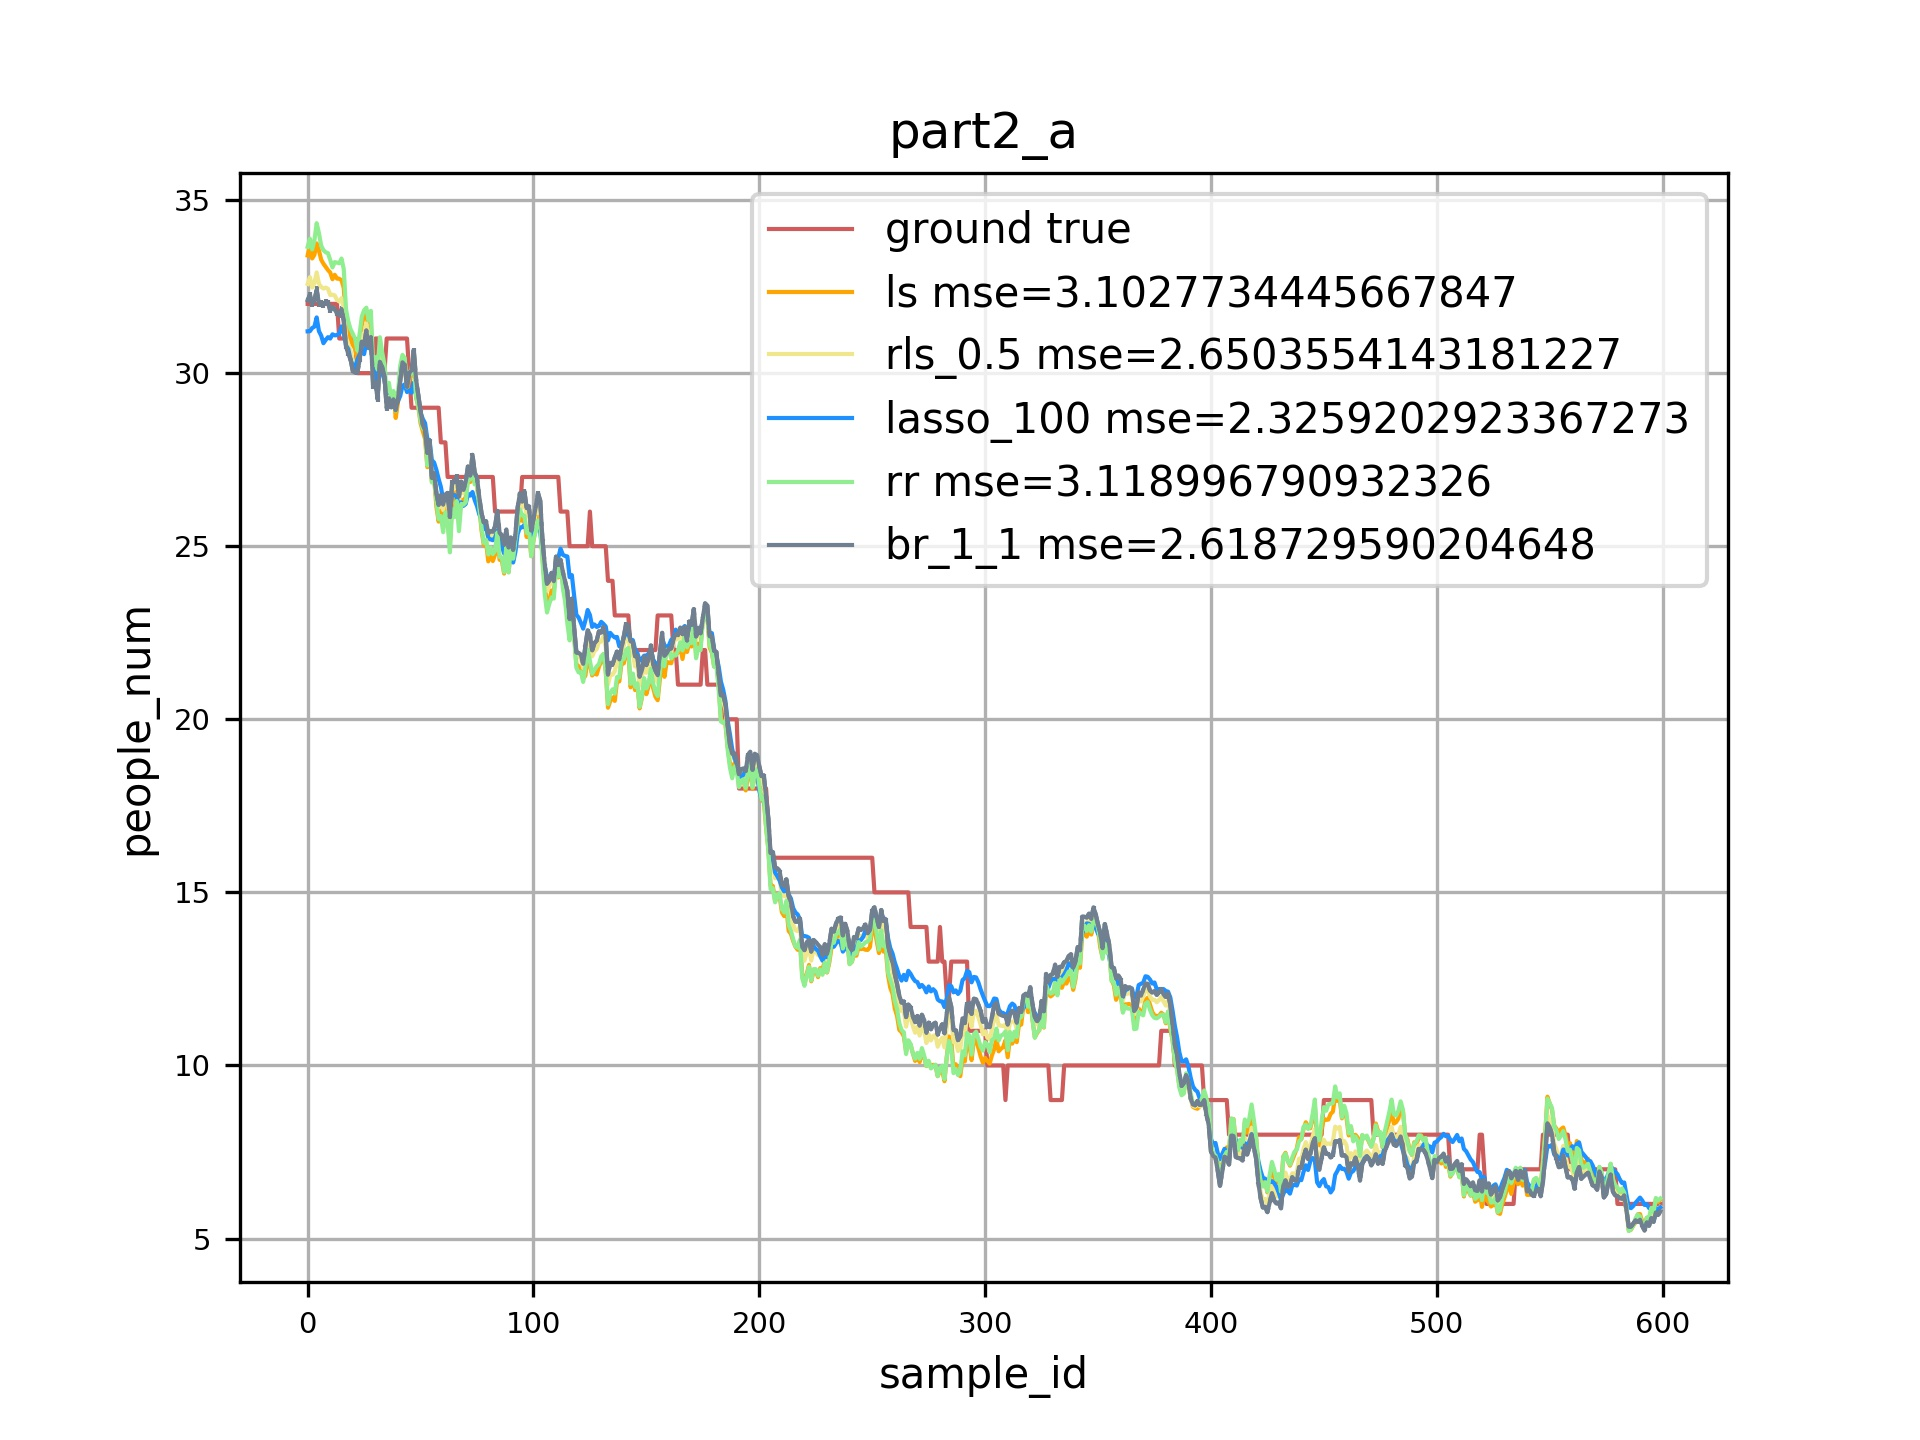
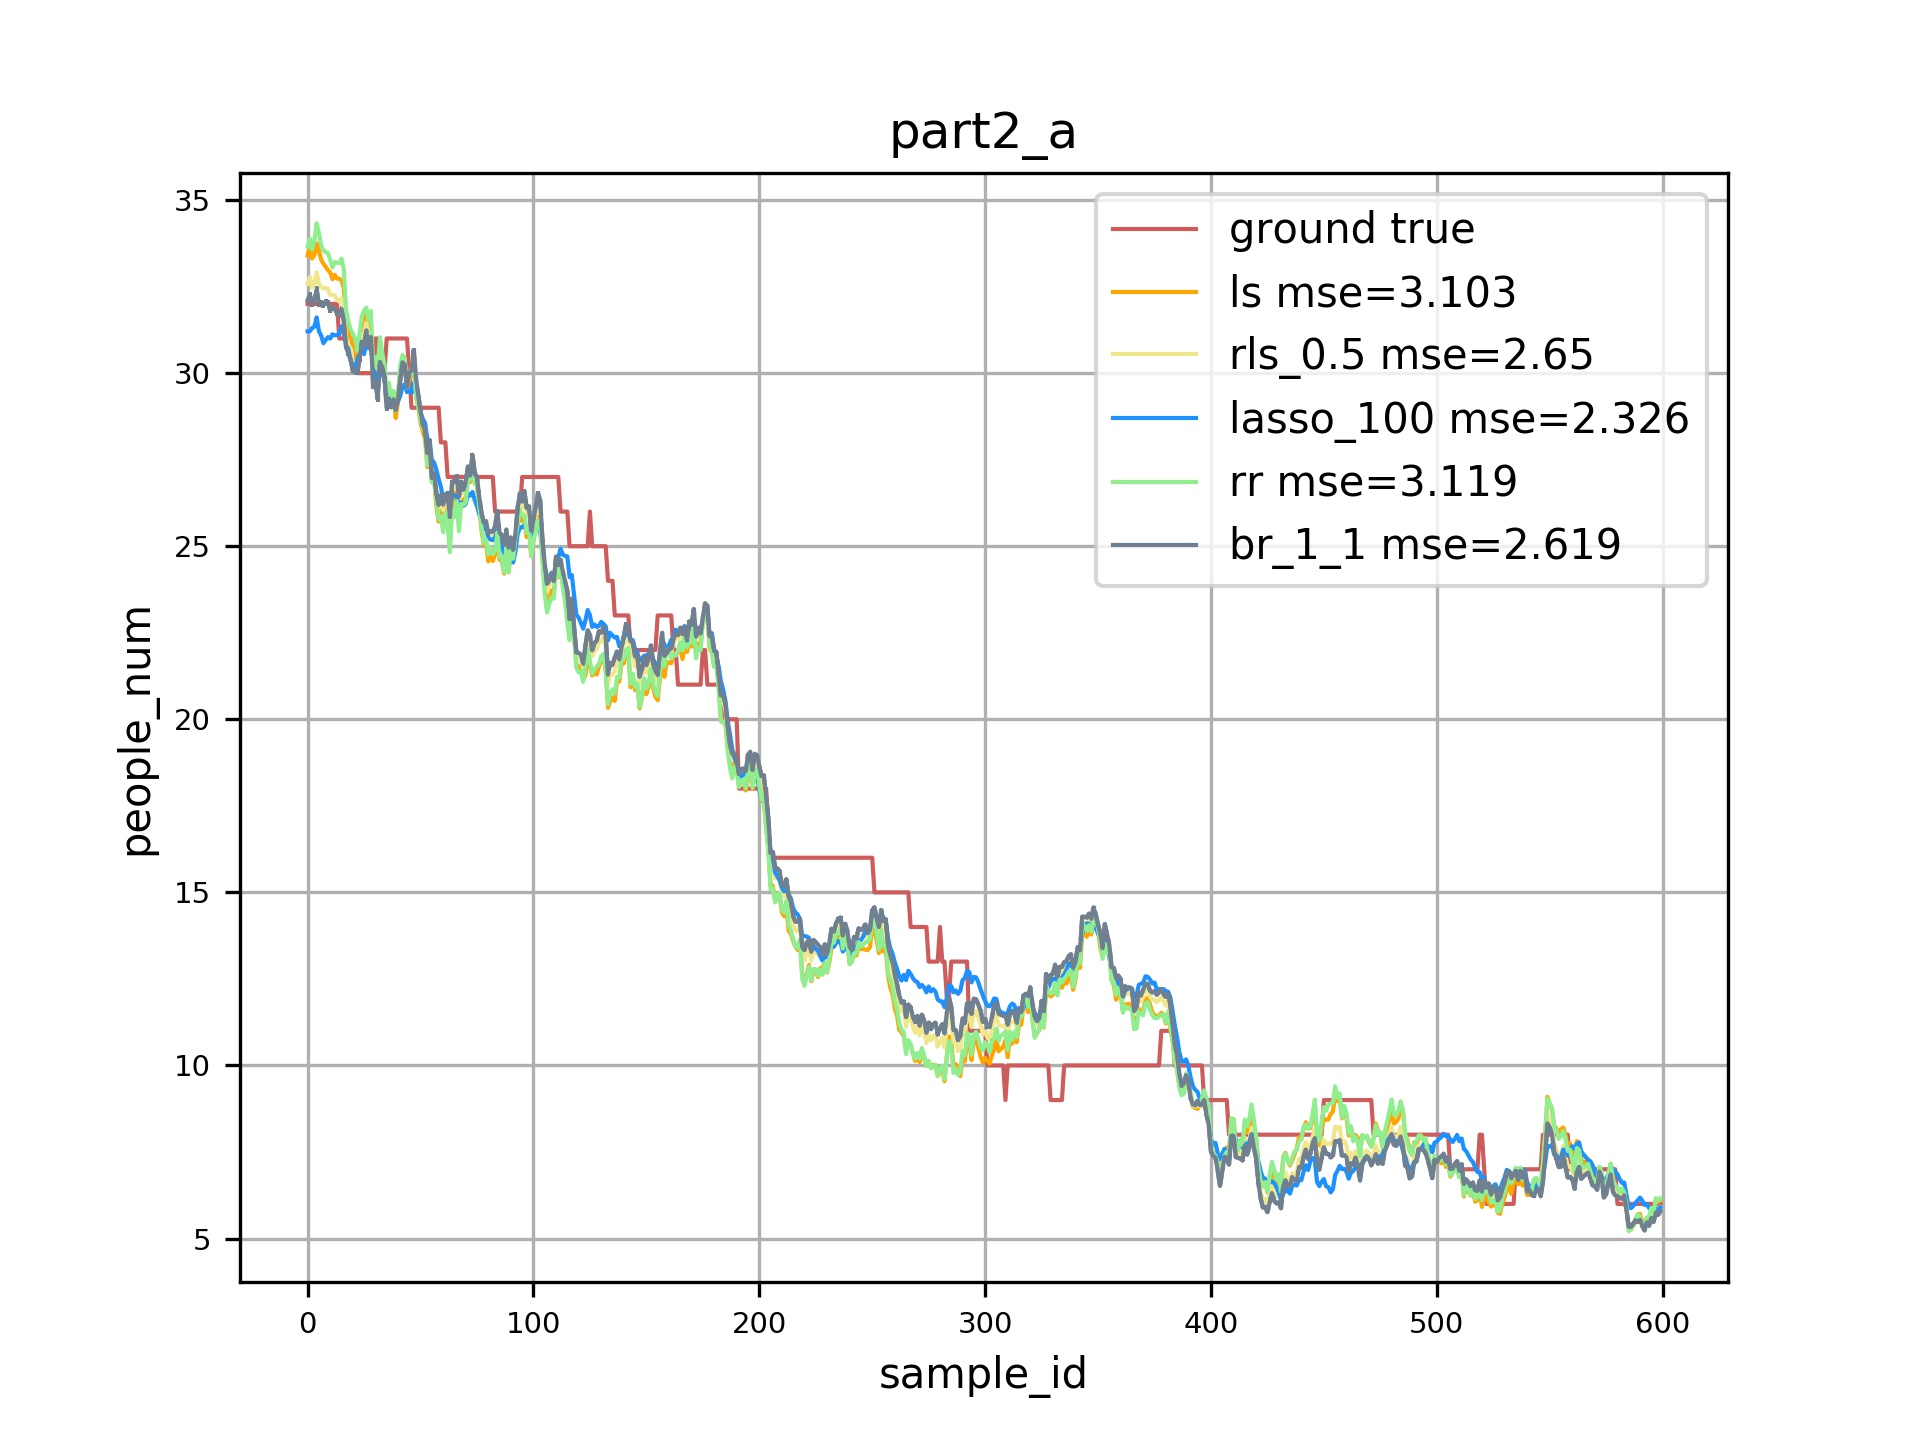
update output curves

Changed region(s): [[0.375, 0.125, 0.875, 0.4062]]

diff --git a/src/drawer.py b/src/drawer.py
@@ -87,9 +87,9 @@ def part2_drawer(name, train_data, test_data,  mean, algorithms, errorbar=True, 
             yerr = np.array([prediction[1][val][val] for val in range(0, prediction[1].shape[0])])
             if errorbar:
                 plt.errorbar(sample_id, prediction[0] + mean, yerr=yerr, fmt='-.', c=COLOR_MAP[idx], lw=1)
-            plt.plot(sample_id, prediction[0] + mean, label=algorithm.name + ' mse=' + str(mse_loss), c=COLOR_MAP[idx], lw=1)
+            plt.plot(sample_id, prediction[0] + mean, label=algorithm.name + ' mse=' + str(round(mse_loss, 3)), c=COLOR_MAP[idx], lw=1)
         else:
-            plt.plot(sample_id, prediction + mean, label=algorithm.name + ' mse=' + str(mse_loss), c=COLOR_MAP[idx], lw=1)
+            plt.plot(sample_id, prediction + mean, label=algorithm.name + ' mse=' + str(round(mse_loss, 3)), c=COLOR_MAP[idx], lw=1)
     
     plt.legend(loc='best')
     file_path = 'output/part{0}/'.format(str(part))
